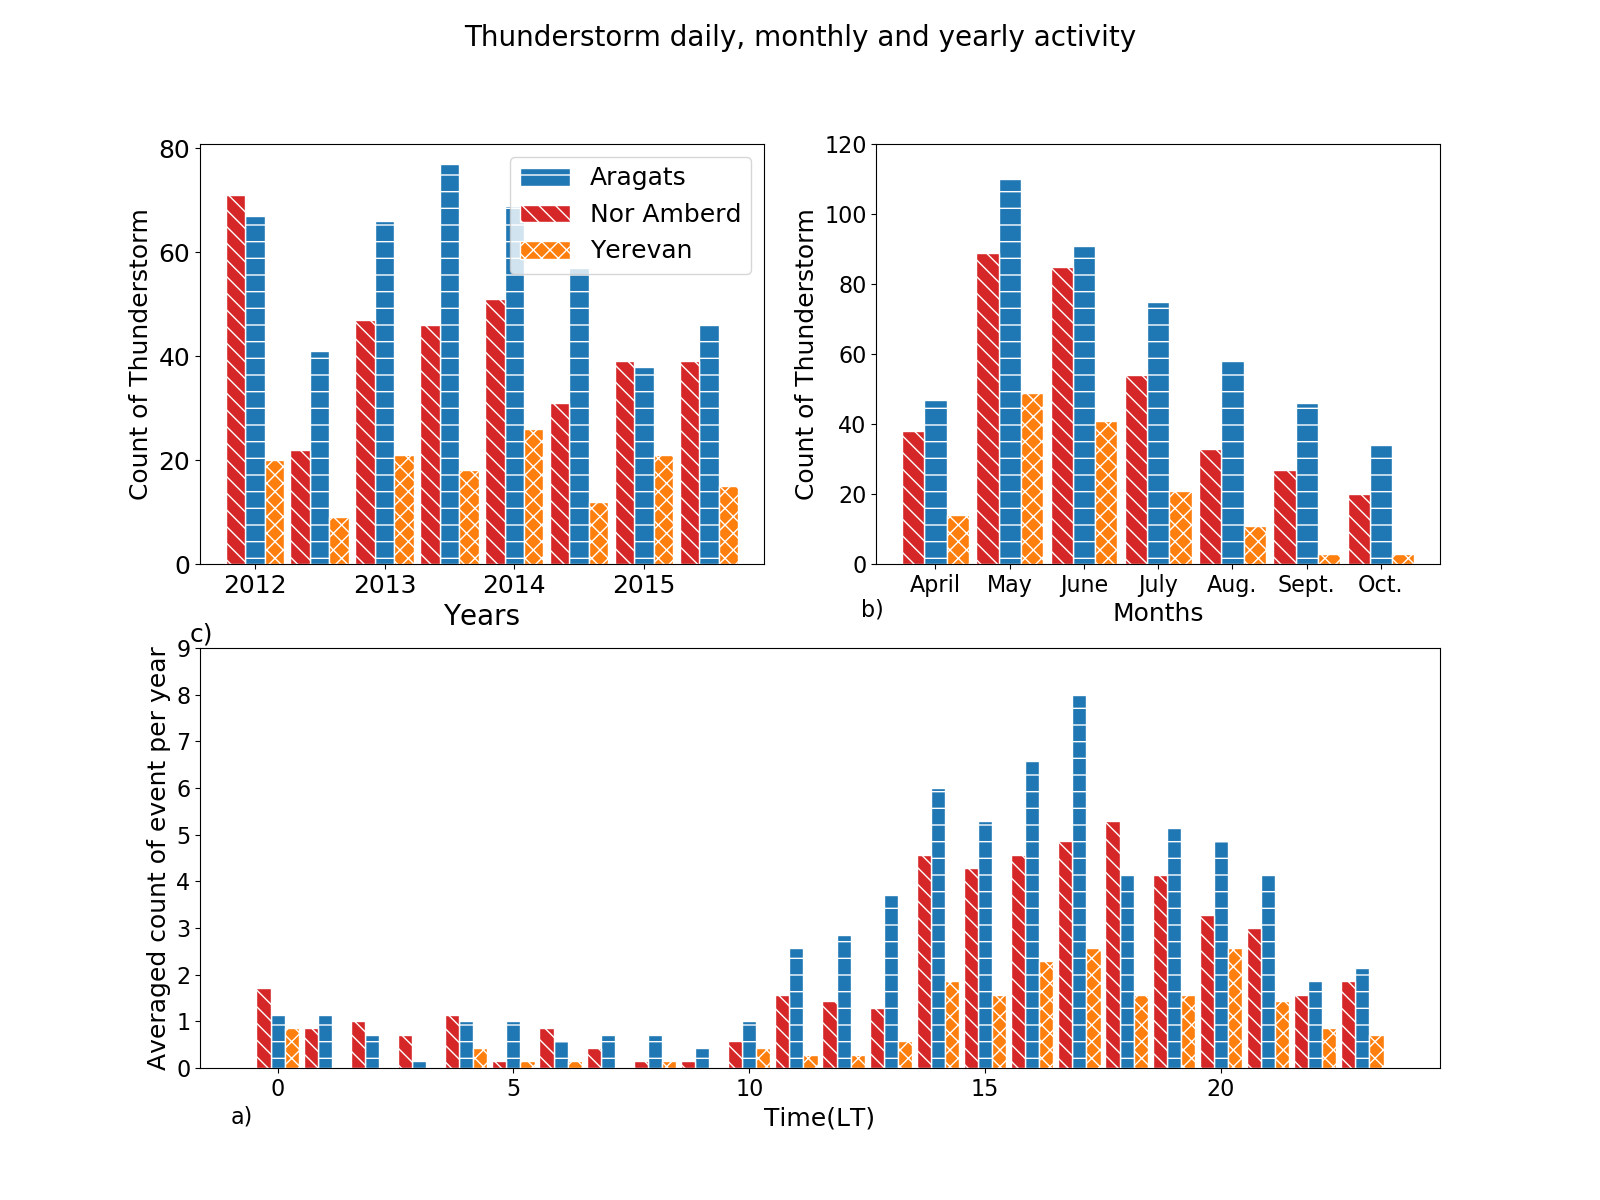
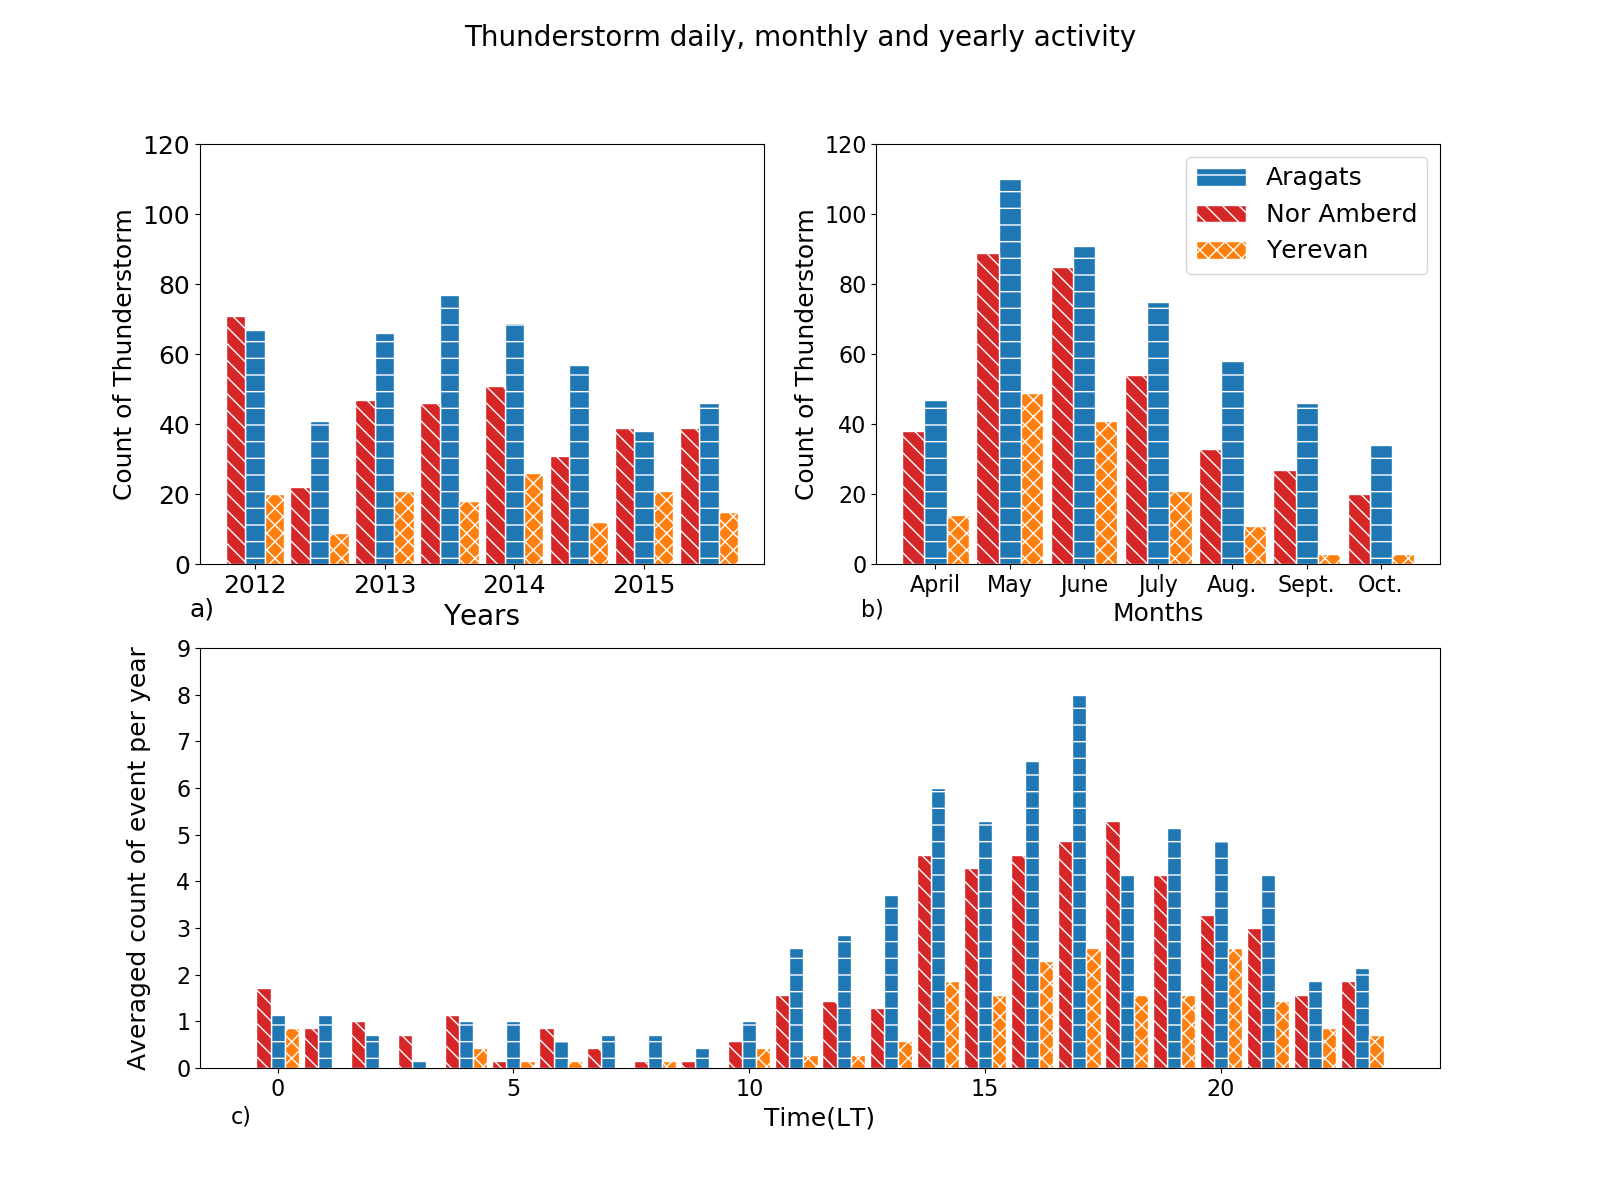
made changes

diff --git a/fforplot.py b/fforplot.py
@@ -11,9 +11,9 @@ def hourlyplot(fig,ax1,arag,nora,yere,i,lim):
     ax1.bar(y_pos - 0.3, noramberd,width = 0.3,label = 'Nor Amberd', hatch= "\\\\", edgecolor = 'white', color='C3')
     ax1.bar(y_pos + 0.3, yerevan,width = 0.3,label = 'Yerevan', hatch= h, edgecolor = 'white', color='C1')
     ax1.tick_params(axis='both', which='major', labelsize=16)
-    ax1.set_ylabel('Averaged count of event per year', fontsize = 18)
+    ax1.set_ylabel('Averaged count of event per year', fontsize = 18, labelpad = 18)
     ax1.set_xlabel('Time(LT)', fontsize = 18)
-    ax1.text(-1, -1.2, 'a)', fontsize = 16)
+    ax1.text(-1, -1.2, 'c)', fontsize = 16)
 
 def monthlybar(mlst1,mlst2,mlst3,ax2):
     ind1 = np.arange(7)
@@ -29,15 +29,15 @@ def monthlybar(mlst1,mlst2,mlst3,ax2):
     ax2.set_ylabel('Count of Thunderstorm', fontsize = 18)
     ax2.set_xlabel('Months', fontsize = 18)
     ax2.text(-1, -15, 'b)', fontsize = 16)
-
+    ax2.legend(fontsize = 18)
 def yearlybar(lst1,lst2,lst3,ax3):
     ind = np.arange(8)
     ax3.bar(ind  , lst1 ,width = 0.3,label = 'Aragats', hatch= "-", edgecolor = 'white', color='C0')
     ax3.bar(ind - 0.3, lst2 ,width = 0.3,label = 'Nor Amberd', hatch= "\\\\", edgecolor = 'white', color='C3')
     ax3.bar(ind + 0.3, lst3 ,width = 0.3,label = 'Yerevan', hatch= h, edgecolor = 'white', color='C1')
     #ax3.legend(loc='center left', bbox_to_anchor=(1, 0.5), fontsize = 13)
-    ax3.legend(fontsize = 18)
-    #ax3.set_ylim(0,120)
+    
+    ax3.set_ylim(0,120)
     xTickMarks = [' ','2012','2013','2014','2015','2016','2017','2018','2019']
     xtickNames = ax3.set_xticklabels(xTickMarks)
     plt.setp(xtickNames, fontsize = 20)
@@ -46,5 +46,5 @@ def yearlybar(lst1,lst2,lst3,ax3):
     #ax3.set_title('Averaged max wind speed during thunderstorms (2012-2019)', fontsize = 22)
     #ax3.set_ylabel('Averaged wind speed(m/s)', fontsize = 20)
     ax3.set_xlabel('Years', fontsize = 20)
-    ax3.text(-1, -15, 'c)', fontsize = 18)
+    ax3.text(-1, -15, 'a)', fontsize = 18)
 
